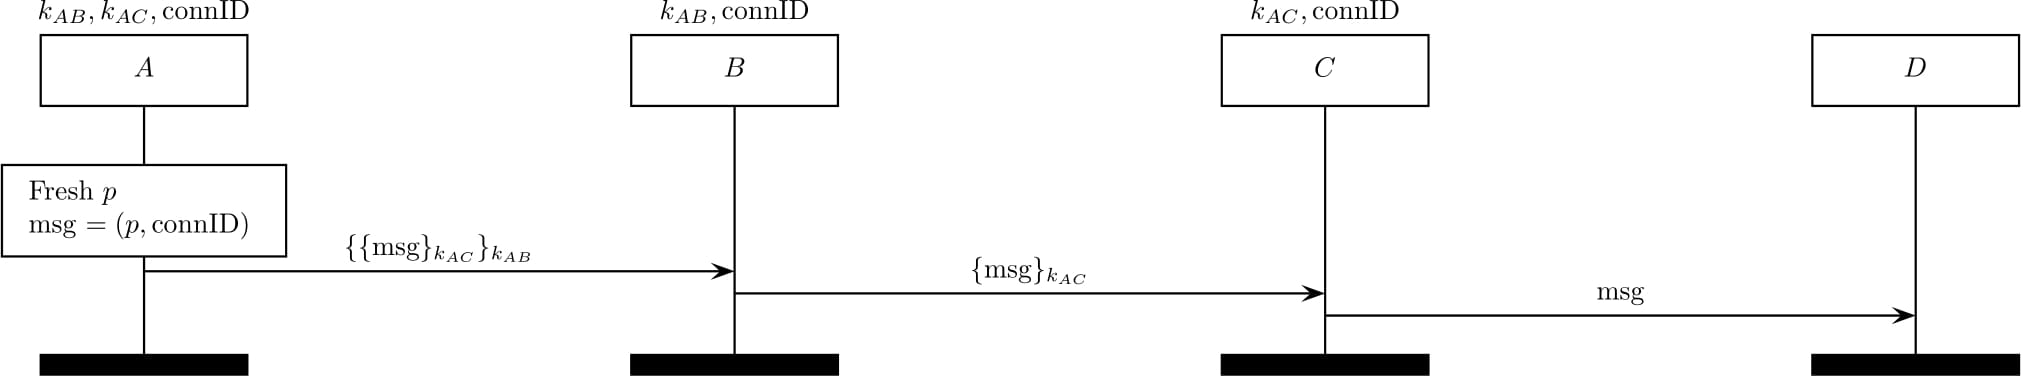
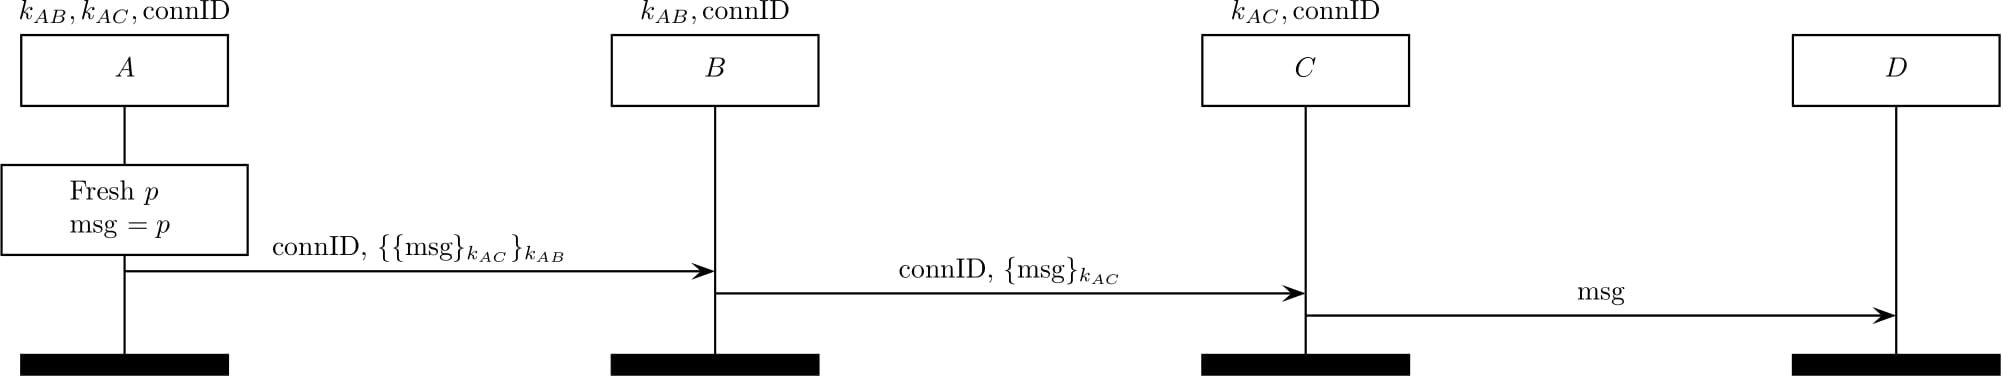
update the TOR protocol

diff --git a/mscs/tor/README.md b/mscs/tor/README.md
@@ -11,61 +11,34 @@ The TOR establishment protocol
 ------------------------------
 <img src="tor_establishment.jpg"></img>
 
-The following MAC keys are established at the mcTLS handshake protocol.
-Note that a read MAC key is also used as an encryption key.
+The above MSC describes a procedure of extending a circuit to <img
+src="https://latex.codecogs.com/gif.latex?C" />.
+Here, <img src="https://latex.codecogs.com/gif.latex?A" /> is a client, <img
+src="https://latex.codecogs.com/gif.latex?B" /> and <img
+src="https://latex.codecogs.com/gif.latex?C" />, and <img
+src="https://latex.codecogs.com/gif.latex?D" /> is a intended server.
+Note that <img src="https://latex.codecogs.com/gif.latex?k_{AB}" /> is a shared
+key between <img src="https://latex.codecogs.com/gif.latex?A" /> and <img
+src="https://latex.codecogs.com/gif.latex?B" /> before this extension.
 
-&nbsp;&nbsp;<img src="https://latex.codecogs.com/gif.latex?k_r"/>:
-a read MAC key<br>
-&nbsp;&nbsp;<img src="https://latex.codecogs.com/gif.latex?k_w"/>:
-a write MAC key<br>
-&nbsp;&nbsp;<img src="https://latex.codecogs.com/gif.latex?k_e"/>:
-an endpoint MAC key<br>
-
-When an endpoint sends want to send a payload <img
-src="https://latex.codecogs.com/gif.latex?p"/>,
-he/she generates three MACs (a read MAC, a write MAC, and an endpoint MAC) and
-send them with <img src="https://latex.codecogs.com/gif.latex?p" /> as <img
-src="https://latex.codecogs.com/gif.latex?msg" />.
-
-When a read-only middlebox that has only <img
-src="https://latex.codecogs.com/gif.latex?k_r" /> receives a <img
-src="https://latex.codecogs.com/gif.latex?msg" />,
-it verifies a read MAC to check whether there is a third-party modification and 
-then functions based on <img src="https://latex.codecogs.com/gif.latex?p" /> if
-it there is no invalid modification.
-
+During the TOR establishment protocol, a client establishes a shared key with
+a TOR relay by using a DH key exchange. Finally, all the entities (except
+a server <img src="https://latex.codecogs.com/gif.latex?D" /> maintain
+states (a symmetric key and a forward/backword routing information) identified 
+with connection ID (connID), which would be used in the TOR record protocol (below).
 
 The TOR record protocol
 -----------------------
 <img src="tor_record.jpg"></img>
 
-The following MAC keys are established at the mcTLS handshake protocol.
-Note that a read MAC key is also used as an encryption key.
-
-&nbsp;&nbsp;<img src="https://latex.codecogs.com/gif.latex?k_r"/>:
-a read MAC key<br>
-&nbsp;&nbsp;<img src="https://latex.codecogs.com/gif.latex?k_w"/>:
-a write MAC key<br>
-&nbsp;&nbsp;<img src="https://latex.codecogs.com/gif.latex?k_e"/>:
-an endpoint MAC key<br>
-
 When an endpoint sends want to send a payload <img
 src="https://latex.codecogs.com/gif.latex?p"/>,
-he/she generates three MACs (a read MAC, a write MAC, and an endpoint MAC) and
-send them with <img src="https://latex.codecogs.com/gif.latex?p" /> as <img
-src="https://latex.codecogs.com/gif.latex?msg" />.
+he/she sends <img src="https://latex.codecogs.com/gif.latex?p" /> with
+a connID.
 
-When a read/write middlebox that has both <img
-src="https://latex.codecogs.com/gif.latex?k_r" /> and <img
-src="https://latex.codecogs.com/gif.latex?k_w" /> receives a <img
-src="https://latex.codecogs.com/gif.latex?msg" />,
-it verifies a read MAC as well as a write MAC to check whether there is any 
-modification by a thrid-party or a read-only middlebox and 
-then functions based on <img src="https://latex.codecogs.com/gif.latex?p" />
-and modifies it into <img src="https://latex.codecogs.com/gif.latex?p'" /> if
-there is no invalid modification.
-
-Note that a receiving endpoint would find an invalid endpoint MAC, since
-a read/write middlebox cannot generate an endpoint MAC on <img
-src="https://latex.codecogs.com/gif.latex?p'" />. Nevertheless, if a write MAC is
-valid, this means there was a valid modification on the path.
+When a TOR relay <img src="https://latex.codecogs.com/gif.latex?B" /> receives 
+<img src="https://latex.codecogs.com/gif.latex?msg"/>
+encrypted with <img src="https://latex.codecogs.com/gif.latex?k_{AC}" /> and
+<img src="https://latex.codecogs.com/gif.latex?k_{AB}" />
+and a connID, it fetches a state with the connID, decrypts an onion-encrypted
+message, and sends the resultant message to the next hop.
